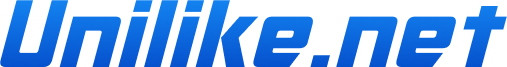
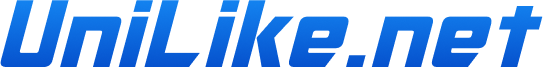
up

diff --git a/index.html b/index.html
@@ -9,17 +9,17 @@
     <meta name="title" content="" />
     <meta name="description" content="" />
     <meta name="robots" content="noodp,index,follow" />
-    <title>UNILIKE</title>
+    <title>UniLike</title>
 
     <!-- favicon -->
     <link rel="icon" type="image/x-icon" href="./assets/img/fav.png">
 
     <!-- og-social -->
-    <meta property="og:title" content="UNILIKE - Nền tảng MEDIA Cộng đồng" />
+    <meta property="og:title" content="UniLike - Nền tảng MEDIA Cộng đồng" />
     <meta property="og:url" content="https://raw.githubusercontent.com/phanduong1232000/lp-unilike/main/assets/img/title-og.png" />
     <meta property="og:image" content="https://raw.githubusercontent.com/phanduong1232000/lp-unilike/main/assets/img/title-og.png" />
     <meta property="og:image:alt" content="Banner-uniontek" />
-    <meta property="og:type" content="UNILIKE - Nền tảng MEDIA Cộng đồng" />
+    <meta property="og:type" content="UniLike - Nền tảng MEDIA Cộng đồng" />
     <meta property="og:description"
         content="Nền tảng thương mại điện  MEDIA Cộng đồng, Giải pháp quản trị cho doanh nghiệp, Giải pháp hướng đến phát triển cộng đồng công nghệ" />
 
@@ -120,7 +120,7 @@
                 <div class="col-lg-6">
                     <img src="./assets/img/title.png" class="title-uni" alt="">
                     <p>Hơn 05 năm làm việc trong lĩnh vực Digital Marketing. Chúng tôi đã triển khai và hoàn thành hơn
-                        200 Chiến Dịch cho các đối tác. Để thành công, Unilike tìm hiểu rất rõ đối tượng mục tiêu của
+                        200 Chiến Dịch cho các đối tác. Để thành công, UniLike tìm hiểu rất rõ đối tượng mục tiêu của
                         khách hàng để có một hướng đi đúng và mang về hiệu quả cao nhất.</p>
                     <button>Tìm Hiểu Thêm</button>
                 </div>
@@ -161,7 +161,7 @@
                     <div class="form-item">
                         <img src="./assets/img/six.png" alt="">
                         <h3>Chạy thuê ads</h3>
-                        <p>Dịch vụ chạy ads Unilike đặt mục tiêu sự hài lòng của khách hàng là trọng tâm.</p>
+                        <p>Dịch vụ chạy ads UniLike đặt mục tiêu sự hài lòng của khách hàng là trọng tâm.</p>
                     </div>
                 </div>
                 <div class="col-lg-4">
@@ -428,7 +428,7 @@
                 </div>
             </div>
             <div class="foot-two">
-                <p>©2022 Allrights reserved Unilike.net</p>
+                <p>©2022 Allrights reserved UniLike.net</p>
                 <div class="d-flex">
                     <img src="./assets/img/card1.png" alt="">
                     <img src="./assets/img/card2.png" alt="">
